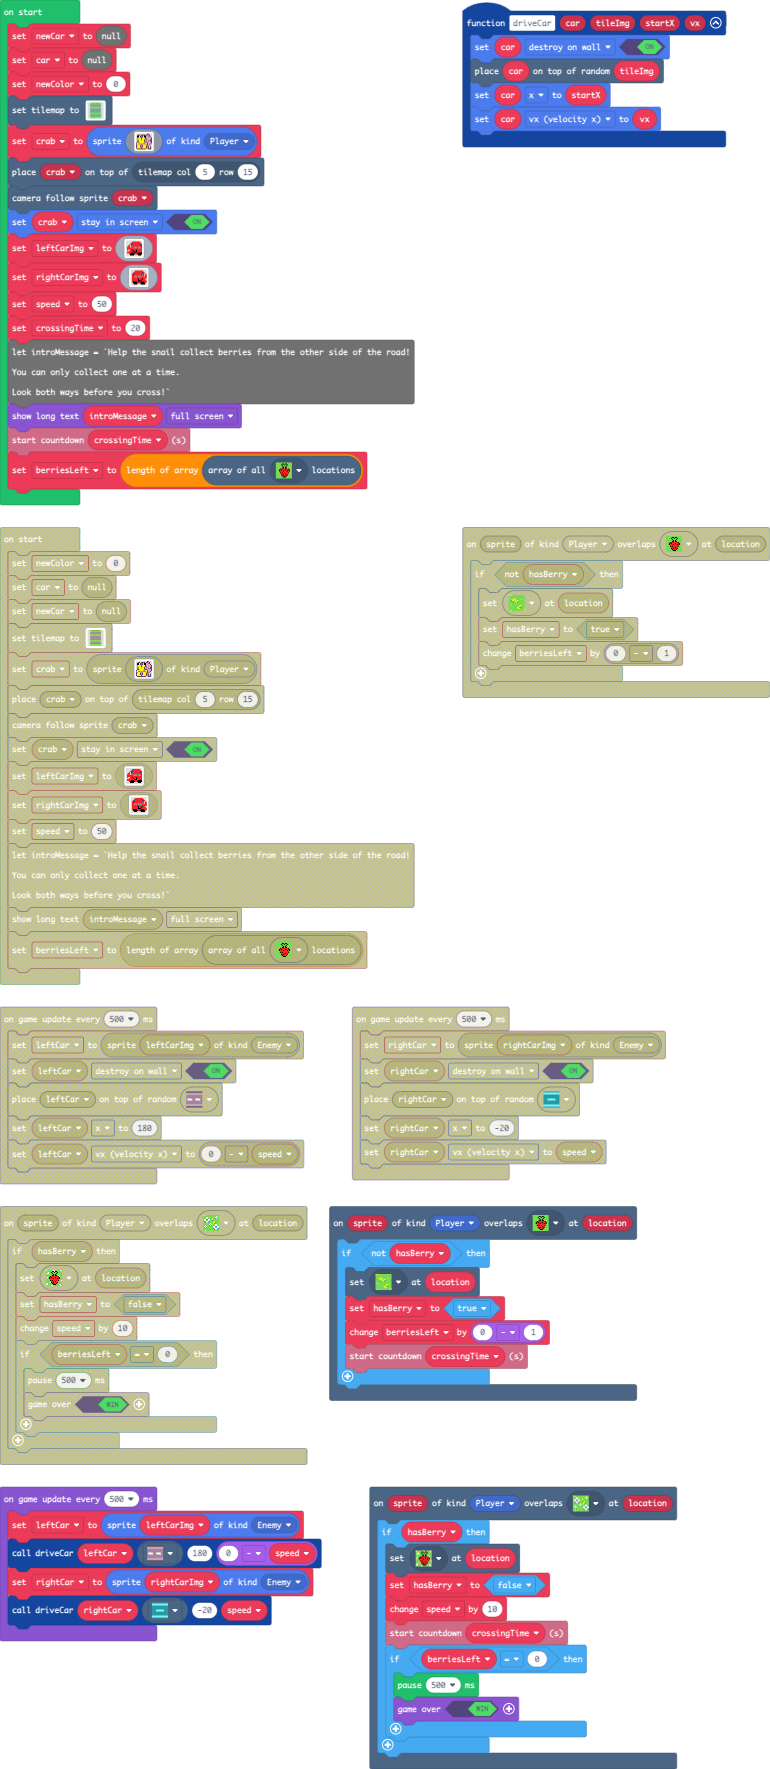
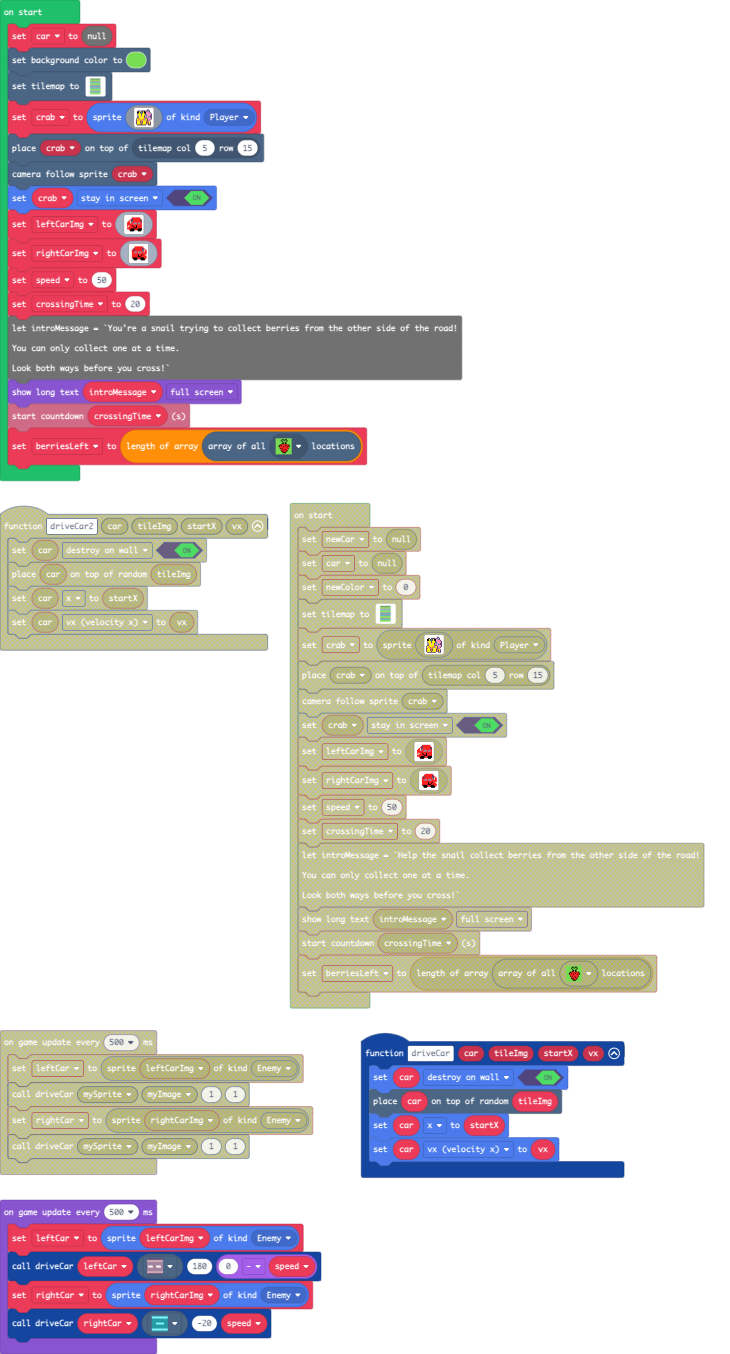
Update pxt.json, main.blocks, main.ts, tilemap.g.jres, tilemap.g.ts

diff --git a/main.ts b/main.ts
@@ -1,6 +1,7 @@
 scene.onOverlapTile(SpriteKind.Player, myTiles.tile3, function (sprite, location) {
     if (!(hasBerry)) {
         tiles.setTileAt(location, sprites.castle.tileGrass3)
+        music.baDing.play()
         hasBerry = true
         berriesLeft += 0 - 1
         info.startCountdown(crossingTime)
@@ -27,6 +28,7 @@ controller.down.onEvent(ControllerButtonEvent.Pressed, function () {
 scene.onOverlapTile(SpriteKind.Player, sprites.castle.tileGrass2, function (sprite, location) {
     if (hasBerry) {
         tiles.setTileAt(location, myTiles.tile5)
+        music.baDing.play()
         hasBerry = false
         speed += 10
         info.startCountdown(crossingTime)
@@ -37,7 +39,9 @@ scene.onOverlapTile(SpriteKind.Player, sprites.castle.tileGrass2, function (spri
     }
 })
 sprites.onOverlap(SpriteKind.Player, SpriteKind.Enemy, function (sprite, otherSprite) {
-    game.over(false)
+    info.changeLifeBy(-1)
+    music.pewPew.play()
+    otherSprite.destroy()
 })
 let rightCar: Sprite = null
 let leftCar: Sprite = null
@@ -45,9 +49,8 @@ let hasBerry = false
 let berriesLeft = 0
 let crossingTime = 0
 let crab: Sprite = null
-let newCar = null
 let car = null
-let newColor = 0
+scene.setBackgroundColor(7)
 tiles.setTilemap(tilemap`level`)
 crab = sprites.create(img`
     . . . . . . . . . . . c c . . . 
@@ -108,8 +111,9 @@ let rightCarImg = img`
     `
 let speed = 50
 crossingTime = 20
-let introMessage = `Help the snail collect berries from the other side of the road!
-You can only collect one at a time.
+info.setLife(3)
+let introMessage = `You're a snail trying to collect berries from the other side of the road.
+You can only collect one at a time - drop it off at your flower garden before you go back for more.
 Look both ways before you cross!`
 game.showLongText(introMessage, DialogLayout.Full)
 info.startCountdown(crossingTime)

diff --git a/tilemap.g.ts b/tilemap.g.ts
@@ -13,7 +13,7 @@ namespace myTiles {
 
     helpers.registerTilemapFactory(function(name: string) {
         switch(helpers.stringTrim(name)) {
[2 lines of base64/hex data omitted]
 . . . . . . . . . . . 
 . . . . . . . . . . . 
 . . . . . . . . . . . 
@@ -30,7 +30,8 @@ namespace myTiles {
 . . . . . . . . . . . 
 . . . . . . . . . . . 
 . . . . . . . . . . . 
-`, [myTiles.transparency16,sprites.castle.tileGrass3,sprites.castle.tileGrass2,sprites.vehicle.roadHorizontal,sprites.castle.tileGrass1,myTiles.tile2,myTiles.tile3], TileScale.Sixteen)
+. . . . . . . . . . . 
+`, [myTiles.transparency16,sprites.castle.tileGrass3,sprites.castle.tileGrass2,sprites.vehicle.roadHorizontal,sprites.castle.tileGrass1,myTiles.tile2,myTiles.tile3,sprites.castle.saplingPine], TileScale.Sixteen)
         }
         return null;
     })
